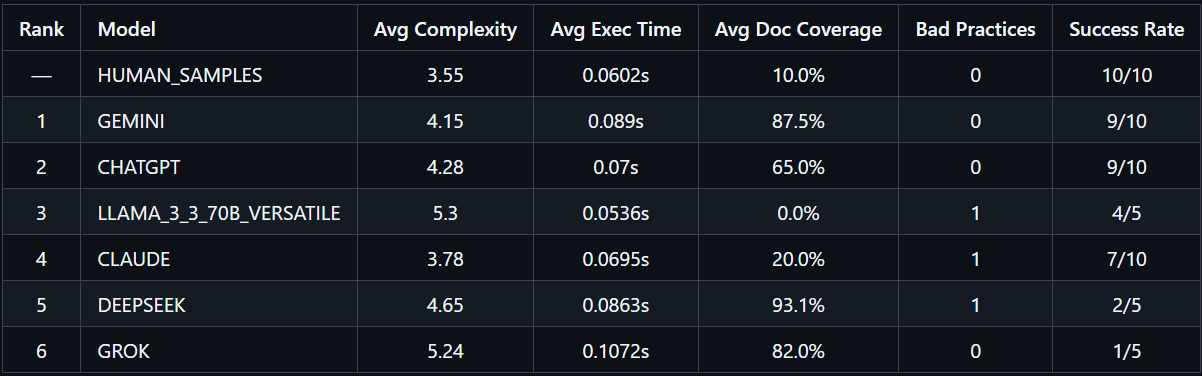
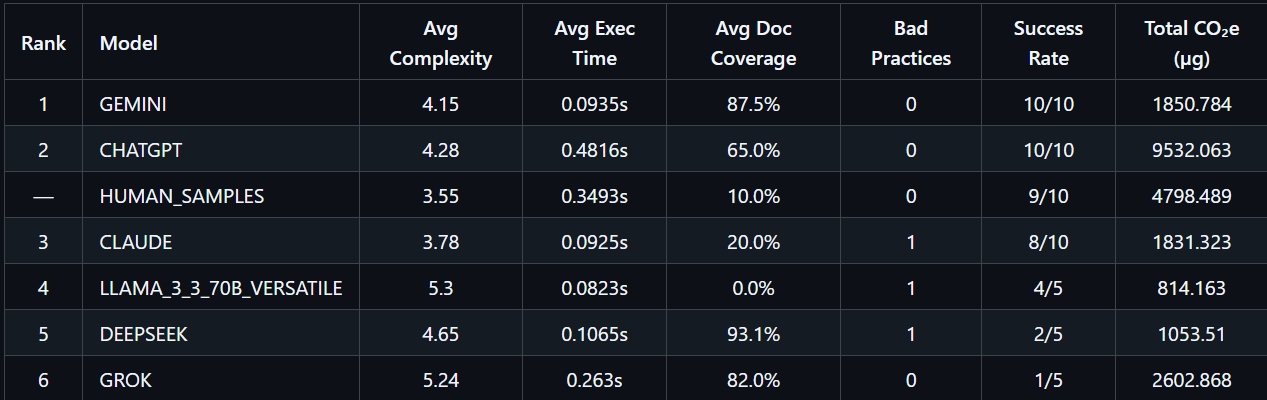
updated the leaderboard figure with three run results

diff --git a/preprint/preprint.md b/preprint/preprint.md
@@ -292,7 +292,7 @@ baseline to account for individual variation.
 
 All benchmark data, prompts, human baseline solutions, and
 LLM-generated outputs are publicly available at
-https://github.com/umayer16/VIBEBENCH under the MIT License.
+[VibeBench GitHub Repository](https://github.com/umayer16/VIBEBENCH) under the MIT License.
 
 Results reported in this paper use three execution runs per file
 (`--runs 3`). We report mean execution time with standard deviation
